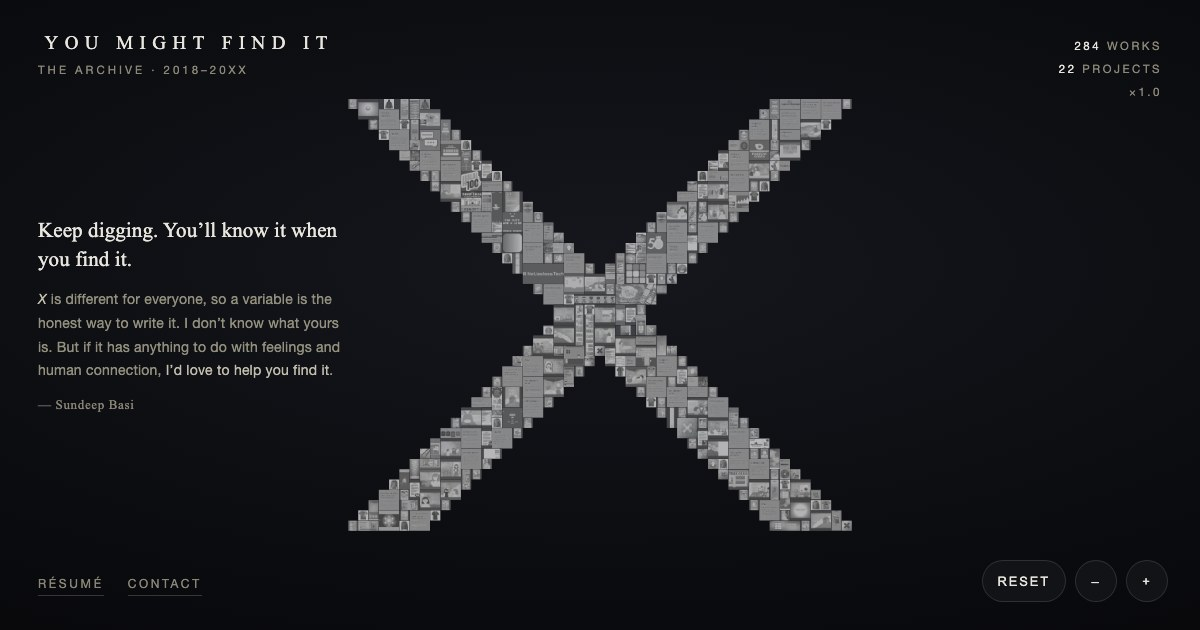
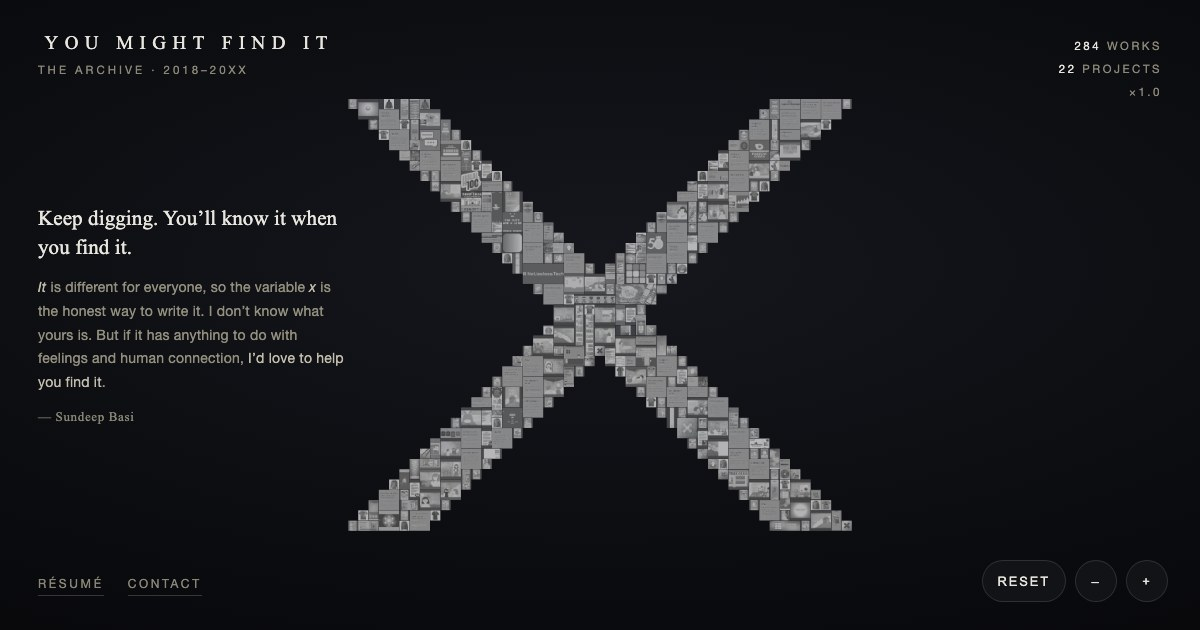
Statement copy: It is the unknown, x is merely its notation
'It is different for everyone, so the variable x is the honest way to
write it.' Defines the brand's own term first, then justifies the X.
og card re-rendered with the new line.

Changed region(s): [[0.0308, 0.4524, 0.3083, 0.6635], [0.0308, 0.3317, 0.2775, 0.4222]]

diff --git a/site/index.html b/site/index.html
@@ -166,9 +166,9 @@
   <div class="ui" id="hint">click to <span>dig</span> · drag to explore · scroll or pinch to zoom</div>
   <div class="ui" id="say">
     <div class="lead">Keep digging. You&rsquo;ll know it when you find it.</div>
-    <div class="body"><i>X</i> is different for everyone, so a variable is the honest way to
-      write it. I don&rsquo;t know what yours is. But if it has anything to do with feelings
-      and human connection, <em>I&rsquo;d love to help you find it</em>.</div>
+    <div class="body"><i>It</i> is different for everyone, so the variable <i>x</i> is the
+      honest way to write it. I don&rsquo;t know what yours is. But if it has anything to do
+      with feelings and human connection, <em>I&rsquo;d love to help you find it</em>.</div>
     <div class="sig">— Sundeep Basi</div>
   </div>
   <div class="ui" id="nav">
